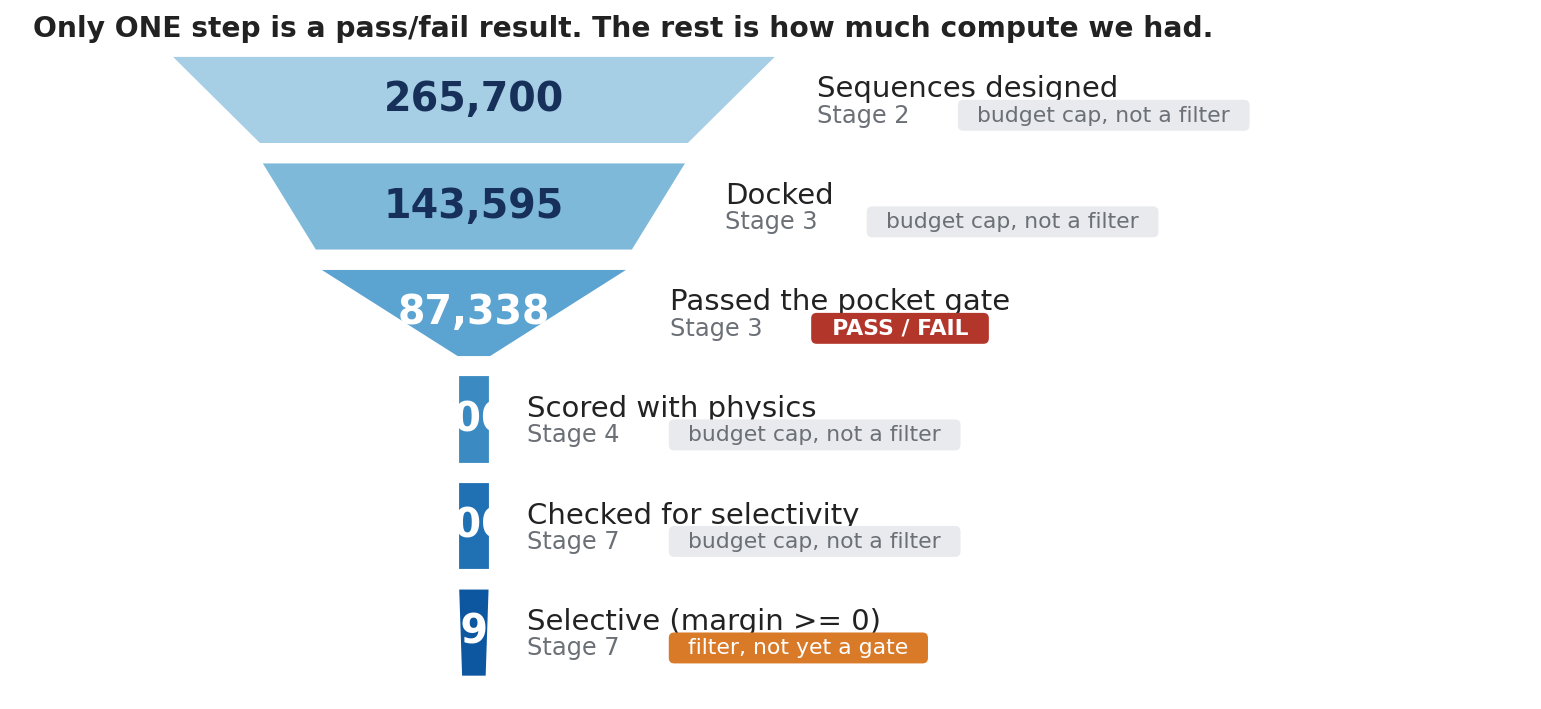
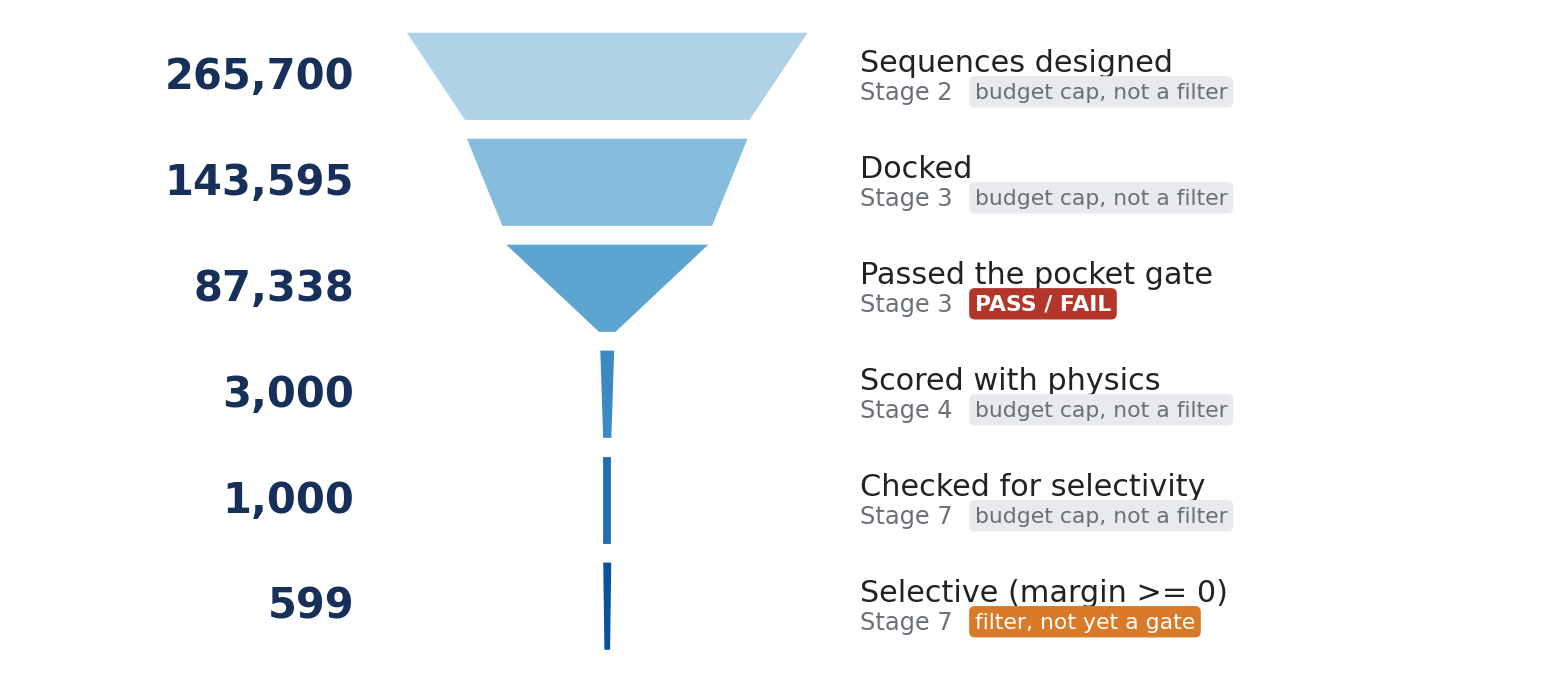
Install LibreOffice without root, then actually look at the deck -- 3 defects fixed
LibreOffice is now available on Woody and the deck has been visually inspected,
which it had not been when it was first committed.

INSTALL. No sudo, and the official 26.8 RPMs need glibc 2.34 against this host's
2.28. LibreOffice 7.6.7.2 is the last line that still builds against the RHEL 8
baseline; its RPMs extract with rpm2cpio into ~/software/libreoffice/root76 and
run without root. scripts/viz/render_deck.sh wraps it and carries the reinstall
recipe in its header, so this does not have to be rediscovered.

WHAT RENDERING CAUGHT, none of which the programmatic checks could see:

1. The funnel figure was BROKEN. Width scales as (log v / log 265700)^7, so the
   lower trapezoids are a few percent of the top width and the centred numbers
   were clipped -- "3,000", "1,000" and "599" rendered as "0", "0" and "9". The
   numbers now sit in a fixed column to the left of the funnel, where width
   cannot clip them. It also duplicated the slide title; removed.
2. slide_permeability.png had two label collisions: leu-enkephalin ran into the
   panel title, and oxytocin sat on top of the histogram bars. The three control
   labels now sit as a block in the empty upper-right of the panel.
3. Slide 5 had a dead zone between the stat callouts and the body text; the two
   text blocks moved up 0.8in.

Earlier, the aspect-ratio check had already caught all six figures being
stretched (worst 5.1%, now 0.09%).
[…]

diff --git a/scripts/viz/plot_slide_figures.py b/scripts/viz/plot_slide_figures.py
@@ -74,34 +74,31 @@ def funnel():
               ("Scored with physics", 3000, "Stage 4", "cap"),
               ("Checked for selectivity", 1000, "Stage 7", "cap"),
               ("Selective (margin >= 0)", 599, "Stage 7", "filter")]
-    fig, ax = plt.subplots(figsize=(13.0, 5.8))
+    fig, ax = plt.subplots(figsize=(13.0, 5.6))
     n = len(stages)
-    top_w = 1.0
-    widths = [max(0.055, (np.log10(v) / np.log10(stages[0][1])) ** 7) for _, v, _, _ in stages]
+    # Numbers live in a fixed column to the LEFT of the funnel, never inside the
+    # shape: the lower trapezoids are only a few percent of the top width, so
+    # text centred in them is clipped. (It was, until it was rendered.)
+    widths = [max(0.03, (np.log10(v) / np.log10(stages[0][1])) ** 7) for _, v, _, _ in stages]
+    h, gap = 1.0, 0.16
     y = 0
-    h, gap = 1.0, 0.18
     for i, ((lab, v, stg, kind), wdt) in enumerate(zip(stages, widths)):
-        w2 = widths[i + 1] if i + 1 < n else wdt * .82
-        poly = Polygon([(-wdt/2, y), (wdt/2, y), (w2/2, y - h), (-w2/2, y - h)],
-                       closed=True, facecolor=plt.cm.Blues(0.35 + .1 * i),
-                       edgecolor="white", linewidth=2)
-        ax.add_patch(poly)
-        ax.text(0, y - h/2, "{:,}".format(v), ha="center", va="center",
-                fontsize=19, fontweight="bold", color="white" if i > 1 else NAVY)
-        ax.text(wdt/2 + .06, y - h/2 + .12, lab, ha="left", va="center",
-                fontsize=14, color=INK)
-        tag = {"GATE": ("  PASS / FAIL  ", RED, "white"),
-               "filter": ("  filter, not yet a gate  ", ORANGE, "white"),
-               "cap": ("  budget cap, not a filter  ", "#E8EAED", MUTED)}[kind]
-        ax.text(wdt/2 + .06, y - h/2 - .17, stg, ha="left", va="center",
-                fontsize=11.5, color=MUTED)
-        ax.text(wdt/2 + .30, y - h/2 - .17, tag[0], ha="left", va="center",
-                fontsize=10.5, color=tag[2], fontweight="bold" if kind == "GATE" else "normal",
-                bbox=dict(boxstyle="round,pad=0.25", facecolor=tag[1], edgecolor="none"))
+        w2 = widths[i + 1] if i + 1 < n else wdt * .8
+        ax.add_patch(Polygon([(-wdt/2, y), (wdt/2, y), (w2/2, y - h), (-w2/2, y - h)],
+                             closed=True, facecolor=plt.cm.Blues(0.32 + .11 * i),
+                             edgecolor="white", linewidth=2))
+        ax.text(-0.62, y - h/2, "{:,}".format(v), ha="right", va="center",
+                fontsize=20, fontweight="bold", color=NAVY)
+        ax.text(0.62, y - h/2 + .15, lab, ha="left", va="center", fontsize=14.5, color=INK)
+        tag = {"GATE": ("PASS / FAIL", RED, "white"),
+               "filter": ("filter, not yet a gate", ORANGE, "white"),
+               "cap": ("budget cap, not a filter", "#E8EAED", MUTED)}[kind]
+        ax.text(0.62, y - h/2 - .17, stg, ha="left", va="center", fontsize=11.5, color=MUTED)
+        ax.text(0.90, y - h/2 - .17, tag[0], ha="left", va="center", fontsize=10.5,
+                color=tag[2], fontweight="bold" if kind == "GATE" else "normal",
+                bbox=dict(boxstyle="round,pad=0.26", facecolor=tag[1], edgecolor="none"))
         y -= h + gap
-    ax.set_xlim(-.75, 1.72); ax.set_ylim(y, .34); ax.axis("off")
-    ax.text(-.72, .20, "Only ONE step is a pass/fail result. The rest is how much compute we had.",
-            fontsize=13.5, color=INK, fontweight="bold", ha="left")
+    ax.set_xlim(-1.45, 2.25); ax.set_ylim(y + .06, .18); ax.axis("off")
     save(fig, "slide_funnel.png")
 
 
@@ -233,20 +230,26 @@ def permeability(top, ctrl):
     a = ax[1]
     bbb = np.array([float(r["s5_bbb_probability_UNRELIABLE"]) for r in top])
     a.hist(bbb, bins=42, color=GRAY, edgecolor="white", linewidth=.5)
-    for nm, col, yf in (("leu-enkephalin", RED, .97), ("met-enkephalin", ORANGE, .80),
-                        ("oxytocin", BLUE, .63)):
+    # Labels go in a block in the empty upper-right of the histogram, not beside
+    # each line: at the lines they collided with the bars (oxytocin) and with the
+    # panel title (leu-enkephalin). Found by rendering the slide.
+    lines = []
+    for nm, col in (("leu-enkephalin", RED), ("met-enkephalin", ORANGE),
+                    ("oxytocin", BLUE)):
         r = [x for x in ctrl if nm in x["sequence_id"]]
         if not r:
             continue
         v = float(r[0]["s5_bbb_probability_UNRELIABLE"])
         a.axvline(v, color=col, lw=2.4)
-        a.annotate("%s\n%.3f" % (nm, v), (v, a.get_ylim()[1]*yf),
-                   xytext=(-8 if v > .45 else 8, 0), textcoords="offset points",
-                   ha="right" if v > .45 else "left", fontsize=12, color=col)
+        lines.append((nm, v, col))
+    for j, (nm, v, col) in enumerate(lines):
+        a.annotate("%-16s %.3f" % (nm, v), (.40, .93 - j * .085),
+                   xycoords="axes fraction", fontsize=12.5, color=col,
+                   family="DejaVu Sans Mono", fontweight="bold")
     a.set_xlabel("BBB model p(permeable)")
     a.set_ylabel("candidates")
-    a.set_title("All three lines are known NON-permeants", fontsize=15,
-                fontweight="bold", color=RED, pad=10)
+    a.set_title("Every line is a known NON-permeant", fontsize=15,
+                fontweight="bold", color=RED, pad=14)
     fig.tight_layout()
     save(fig, "slide_permeability.png")
 

diff --git a/scripts/viz/build_deck.py b/scripts/viz/build_deck.py
@@ -140,7 +140,7 @@ notes(s, "Keep this short. Binding is the hard part; permeability we assumed we 
 # ------------------------------------------------------------------- 3
 s = prs.slides.add_slide(BLANK); footer(s, 3)
 title(s, "One real filter. The rest is how much compute we had")
-figure(s, FIG + "slide_funnel.png", 1.12, 1.15, 11.08, 5.10)
+figure(s, FIG + "slide_funnel.png", 0.85, 1.15, 11.63, 5.10)
 takeaway(s, "Only the Stage 3 pocket gate is a pass/fail result — 87,338 of 143,595. Every other "
             "narrowing is a budget decision, and the 84,338 survivors we never scored were not rejected.")
 notes(s, "This is the slide people misread. A funnel drawn without marking gates versus caps looks "
@@ -188,10 +188,10 @@ for ri, row in enumerate(rows):
         f.color.rgb = WHITE if ri == 0 else INK
         cell.fill.solid()
         cell.fill.fore_color.rgb = NAVY if ri == 0 else (LIGHT if ri % 2 else WHITE)
-tb(s, 0.55, 4.25, 7.3, 1.0,
+tb(s, 0.55, 3.45, 7.3, 1.0,
    "Every one is a disulfide-cyclised macrocycle with a C-terminal amide — scored as the molecule "
    "we would actually make, not a linear approximation.", size=15, color=INK, line=1.2)
-tb(s, 0.55, 5.35, 7.3, 1.0,
+tb(s, 0.55, 4.55, 7.3, 1.0,
    "The −3.0 efficiency cut is a choice, not a derived threshold. It is the number on this slide "
    "I would defend least.", size=14, italic=True, color=RED, line=1.2)
 notes(s, "178 against a need of about 100 — comfortably covered. Be honest about the threshold: "
